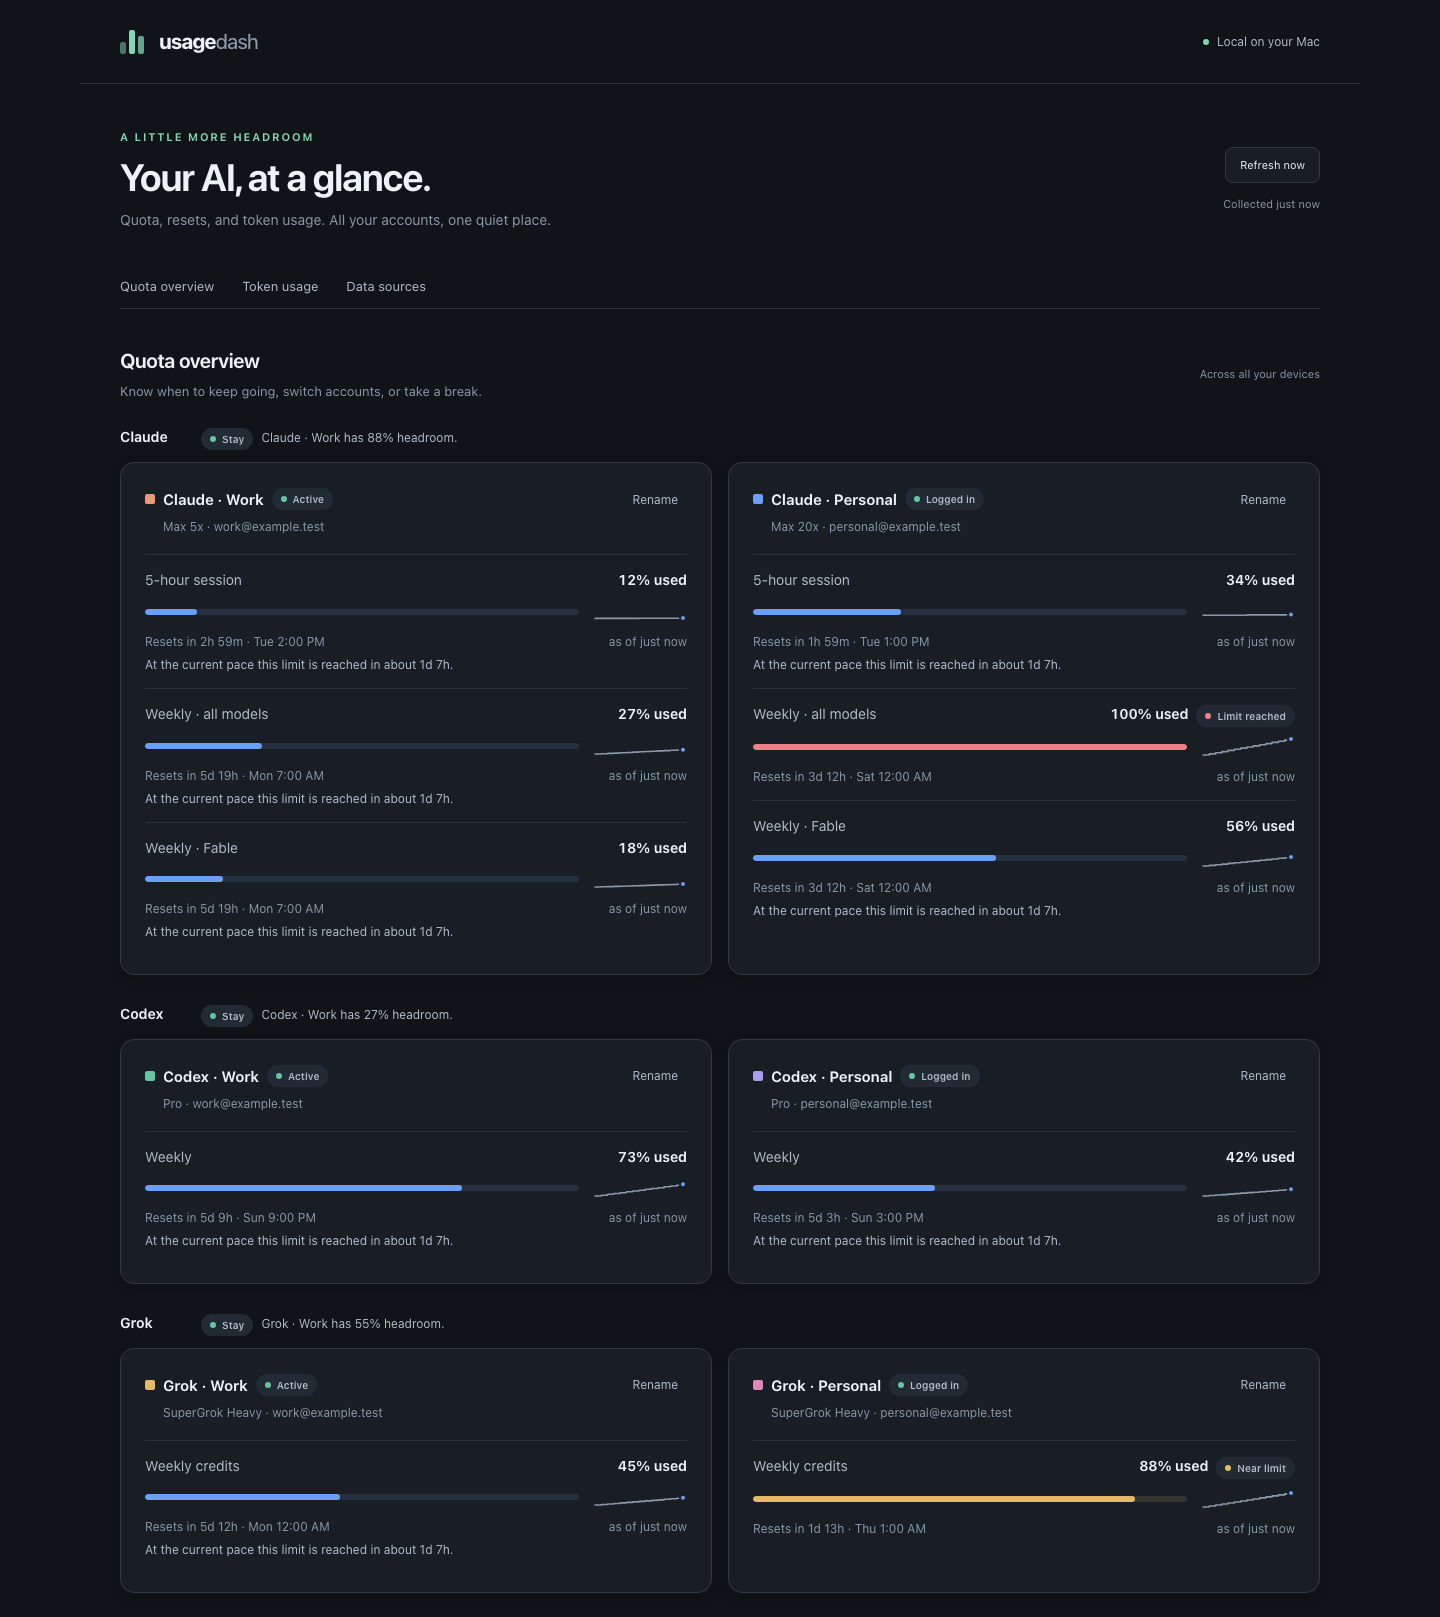
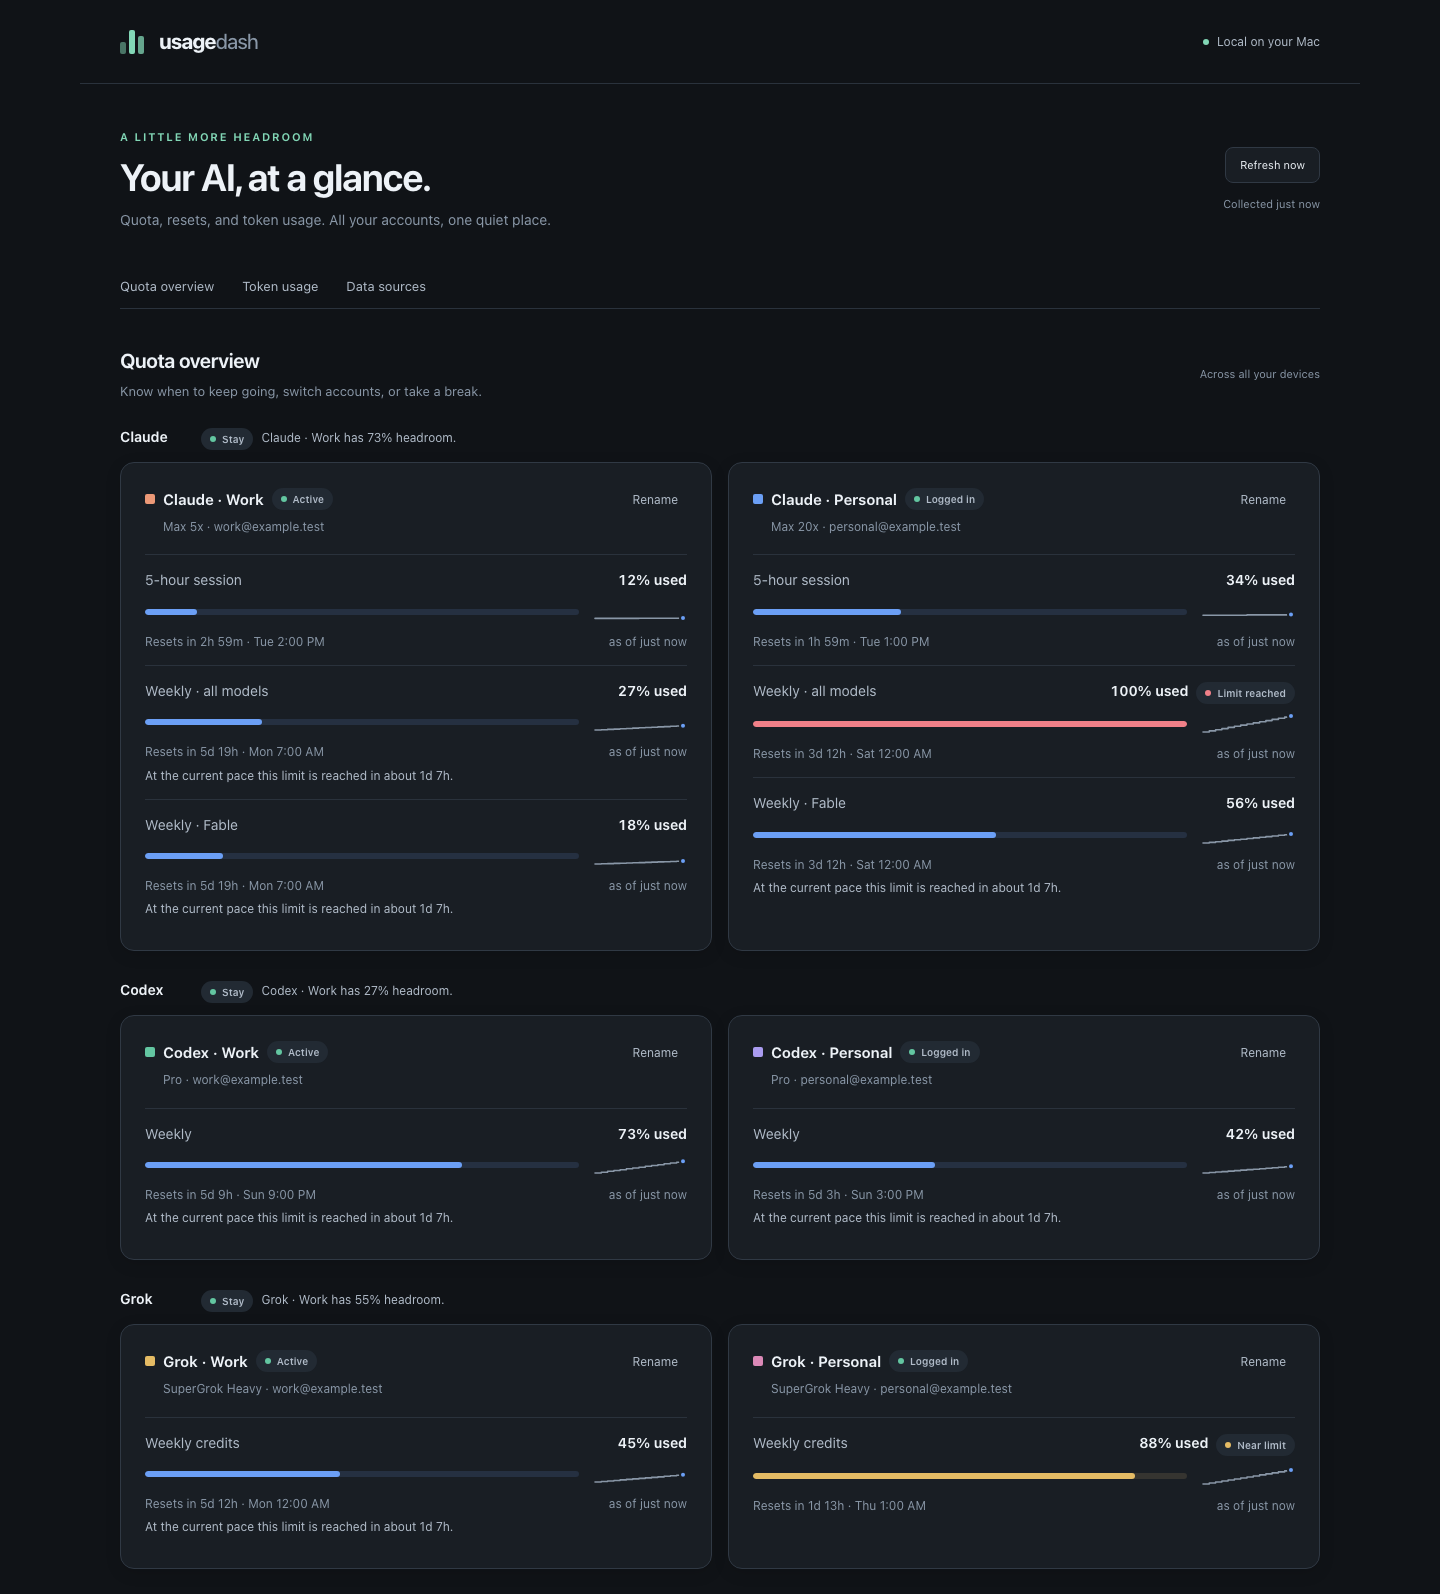
test: complete demo data and verify dashboard detail views

diff --git a/tests/browser/demo.js b/tests/browser/demo.js
@@ -20,7 +20,7 @@ function quota(key, label, percent, resetHours, hours = 168) {
     as_of: iso(),
     freshness: 'live',
     window_seconds: hours * 3600,
-    pace_exhausts_at: percent > 0 && percent < 75 ? iso(32 * HOUR) : null,
+    pace_exhausts_at: percent > 0 && percent < 75 && resetHours > 32 ? iso(32 * HOUR) : null,
   };
 }
 
@@ -83,9 +83,12 @@ export function demoState() {
     },
   ];
   for (const provider of providers) {
+    const active = provider.accounts.find((item) => item.is_active);
+    const headroom =
+      100 - Math.max(...active.windows.filter((window) => window.blocking).map((window) => window.used_percent));
     provider.advice = {
       action: 'stay',
-      summary: `${provider.accounts[0].label} has ${100 - provider.accounts[0].windows[0].used_percent}% headroom.`,
+      summary: `${active.label} has ${headroom}% headroom.`,
       as_of: null,
       next_available_at: null,
     };
@@ -107,13 +110,16 @@ export function demoState() {
         })),
       ),
     ),
-    sources: providers.map((provider) => ({
-      source_id: `${provider.provider}:working login`,
-      kind: 'direct',
-      severity: 'ok',
-      message: 'Connected and collecting',
-      last_success_at: iso(),
-    })),
+    sources: providers.flatMap((provider) =>
+      provider.accounts.map((account) => ({
+        source_id: `${provider.provider}:${account.is_active ? 'working login' : 'standing login'}`,
+        kind: account.is_active ? 'direct' : 'cli',
+        severity: 'ok',
+        message: 'Connected and collecting',
+        last_attempt_at: iso(),
+        last_success_at: iso(),
+      })),
+    ),
   };
 }
 
@@ -138,8 +144,9 @@ function totalCounts(rows) {
 function tokenReport(state, range) {
   const bucketCount = range === '24h' ? 24 : range === '30d' ? 30 : 7;
   const interval = range === '24h' ? HOUR : DAY;
+  const anchor = range === '24h' ? NOW : Date.parse('2026-10-20T04:00:00Z');
   const buckets = Array.from({ length: bucketCount }, (_, index) => {
-    const start = iso((index - bucketCount + 1) * interval);
+    const start = new Date(anchor + (index - bucketCount + 1) * interval).toISOString();
     return { key: range === '24h' ? start : start.slice(0, 10), start };
   });
   const series = state.providers.flatMap((provider) =>
@@ -158,13 +165,49 @@ function tokenReport(state, range) {
       };
     }),
   );
+  const modelNames = { claude: 'claude-opus-4-6', codex: 'gpt-6-sol', grok: 'grok-4.7' };
+  const models = series.map((item) => ({
+    provider: item.provider,
+    account_id: item.account_id,
+    model: item.account_id === '6' ? 'unlisted-demo-model' : modelNames[item.provider],
+    totals: item.totals,
+  }));
+  // Why: demo costs match the short-prompt rates recorded in pricing.py on 2026-10-08.
+  const rates = {
+    claude: [5_000_000n, 500_000n, 25_000_000n],
+    codex: [2_000_000n, 200_000n, 10_000_000n],
+    grok: [2_000_000n, 500_000n, 6_000_000n],
+  };
+  const costs = models.map((row) => {
+    const rate = rates[row.provider];
+    const price =
+      (BigInt(row.totals.input) * rate[0] +
+        BigInt(row.totals.cache_read) * rate[1] +
+        BigInt(row.totals.output) * rate[2]) /
+      1_000_000n;
+    const unpriced = row.model === 'unlisted-demo-model';
+    return {
+      provider: row.provider,
+      account_id: row.account_id,
+      priced_microdollars: unpriced ? '0' : String(price),
+      unpriced_tokens: unpriced ? row.totals.total : '0',
+      models: [
+        {
+          model: row.model,
+          priced: !unpriced,
+          microdollars: unpriced ? null : String(price),
+          unpriced_tokens: unpriced ? row.totals.total : '0',
+        },
+      ],
+    };
+  });
   return {
     range,
     bucket: range === '24h' ? 'hour' : 'day',
     timezone: 'America/New_York',
     buckets,
     series,
-    models: [],
+    models,
     provider_totals: state.providers.map((provider) => ({
       provider: provider.provider,
       display_name: provider.display_name,
@@ -175,7 +218,7 @@ function tokenReport(state, range) {
       currency: 'USD',
       unit: 'microdollar',
       note: 'Estimated at published short-prompt API rates. This is not your subscription charge.',
-      accounts: [],
+      accounts: costs,
     },
   };
 }

diff --git a/tests/browser/dashboard.spec.js b/tests/browser/dashboard.spec.js
@@ -2,7 +2,23 @@ import { mkdir } from 'node:fs/promises';
 
 import { expect, test } from '@playwright/test';
 
-import { mountDemo } from './demo.js';
+import { demoState, mountDemo } from './demo.js';
+
+test('demo forecasts stay before their resets and advice uses every blocking window', () => {
+  for (const provider of demoState().providers) {
+    const active = provider.accounts.find((account) => account.is_active);
+    const used = Math.max(...active.windows.filter((window) => window.blocking).map((window) => window.used_percent));
+    expect(provider.advice.summary).toContain(`${100 - used}% headroom`);
+    for (const account of provider.accounts) {
+      for (const window of account.windows) {
+        if (window.pace_exhausts_at !== null) {
+          expect(Date.parse(window.pace_exhausts_at)).toBeGreaterThan(Date.parse(window.as_of));
+          expect(Date.parse(window.pace_exhausts_at)).toBeLessThan(Date.parse(window.resets_at));
+        }
+      }
+    }
+  }
+});
 
 test('README screenshot renders the real dashboard with demo accounts', async ({ page }) => {
   const errors = [];
@@ -33,6 +49,14 @@ for (const width of [320, 390, 768, 1440]) {
       await mountDemo(page);
       await expect(page.locator('.card')).toHaveCount(6);
       await expect(page.locator('#chart svg')).toBeVisible();
+      await page.getByText('By model', { exact: true }).click();
+      await expect(page.locator('#model-table tbody tr')).toHaveCount(6);
+      await expect(page.locator('#model-table')).toContainText('claude-opus-4-6');
+      await expect(page.locator('#cost-table tbody tr')).toHaveCount(7);
+      await expect(page.locator('#cost-table tbody tr').first()).toContainText('$65');
+      await page.getByText('Cost by model', { exact: true }).click();
+      await expect(page.locator('#cost-model-table tbody tr')).toHaveCount(6);
+      await expect(page.locator('#cost-model-table tbody tr').last()).toContainText('No rate');
       await expect(page.locator('html')).toHaveCSS('color-scheme', colorScheme);
       const background = await page.locator('body').evaluate((node) => getComputedStyle(node).backgroundColor);
       const channels = background.match(/\d+/g).map(Number);

diff --git a/playwright.config.js b/playwright.config.js
@@ -3,6 +3,7 @@ import { defineConfig } from '@playwright/test';
 export default defineConfig({
   testDir: './tests/browser',
   fullyParallel: true,
+  workers: 2,
   forbidOnly: Boolean(process.env.CI),
   retries: process.env.CI ? 1 : 0,
   reporter: 'list',
